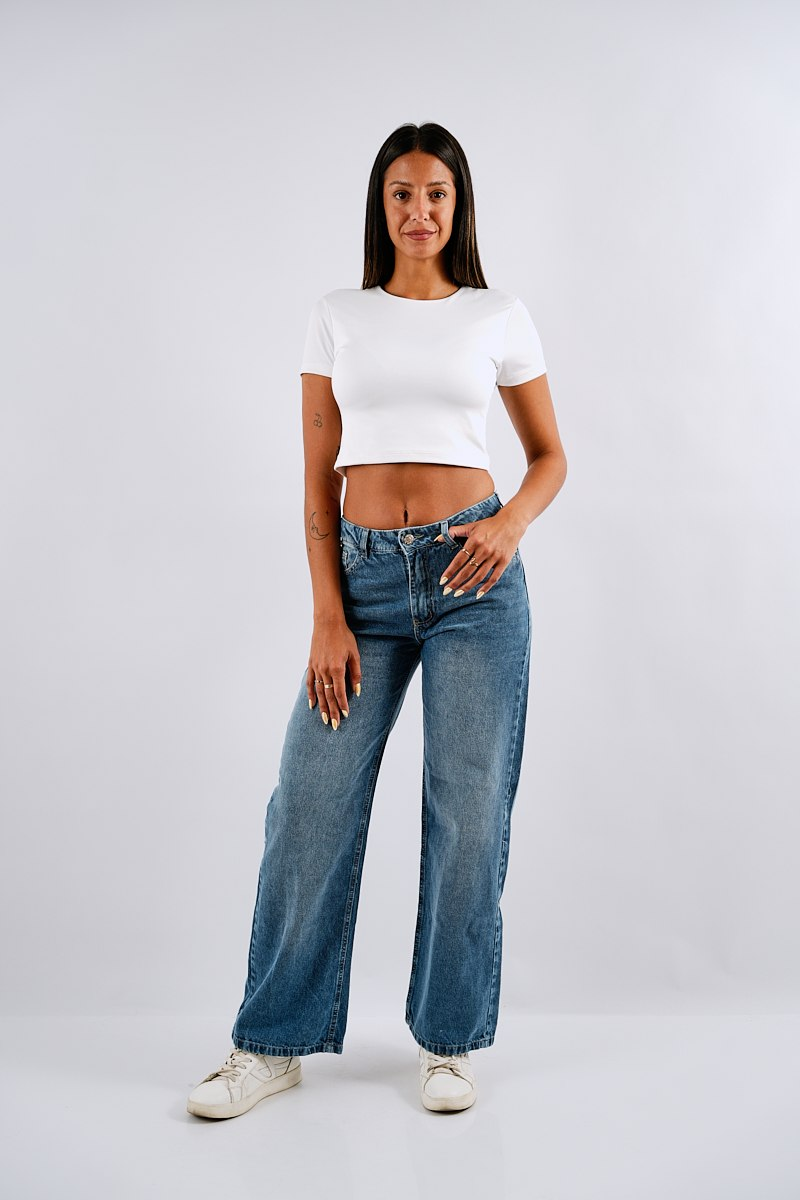
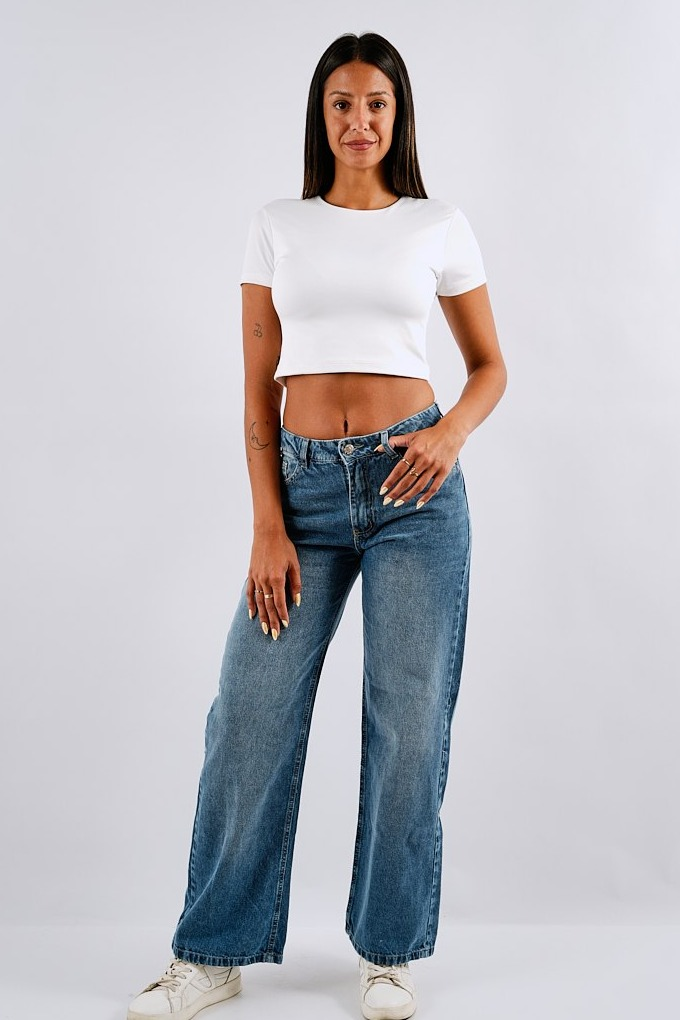
Replace accent tan with #F7F4ED, tighten fullbody crop for better framing
- --accent (previously a tan/gold #d8c3a5, used for grid-section and
  reels backgrounds plus the brands script text) is now #F7F4ED per
  request, replacing the yellow-leaning tone
- Re-cropped fullbody_white.jpg with less empty space on all sides so
  the face/figure read as more centered and prominent, keeping the
  2:3 ratio so the carousel slide still shows it uncropped
- initCarousel() now supports a data-position attribute per slide for
  future object-position tweaks

Changed region(s): [[0.1853, 0.2431, 0.7412, 1.0], [0.4324, 0.0304, 0.6485, 0.2735]]

diff --git a/script.js b/script.js
@@ -96,6 +96,7 @@ function initCarousel(rootId, trackId) {
     alt: el.dataset.alt || '',
     link: el.dataset.link || null,
     credit: el.dataset.credit || null,
+    position: el.dataset.position || null,
     extraClass: el.classList.contains('carousel__slide--square') ? 'carousel__slide--square' : null,
   }));
   if (!slidesData.length) return;
@@ -112,6 +113,7 @@ function initCarousel(rootId, trackId) {
     img.src = data.src;
     img.alt = data.alt;
     img.loading = 'lazy';
+    if (data.position) img.style.objectPosition = data.position;
     el.appendChild(img);
     if (data.credit) {
       const badge = document.createElement('span');

diff --git a/index.html b/index.html
@@ -8,7 +8,7 @@
 <link rel="preconnect" href="https://fonts.googleapis.com">
 <link rel="preconnect" href="https://fonts.gstatic.com" crossorigin>
 <link href="https://fonts.googleapis.com/css2?family=Bodoni+Moda:ital,wght@0,400;0,500;0,600;1,400;1,500&family=Inter:wght@300;400;500;600;700;800;900&display=swap" rel="stylesheet">
-<link rel="stylesheet" href="styles.css?v=8">
+<link rel="stylesheet" href="styles.css?v=9">
 </head>
 <body>
 

diff --git a/styles.css b/styles.css
@@ -5,7 +5,7 @@
   --white: #ffffff;
   --text-light: #f3ebe6;
   --text-muted: #cbb9b3;
-  --accent: #d8c3a5;
+  --accent: #F7F4ED;
   --serif: 'Bodoni Moda', serif;
   --display: 'Inter', sans-serif;
   --sans: 'Inter', sans-serif;
